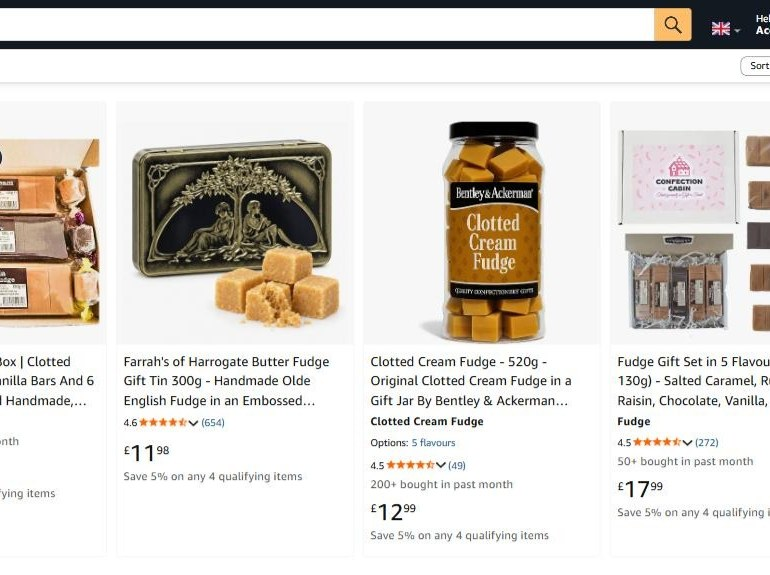
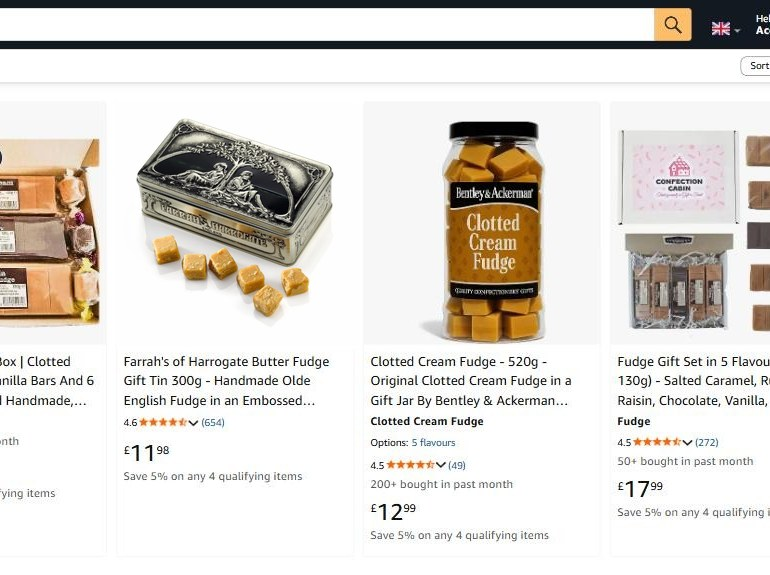
farrahs-demo-v2: shelf tile uses real photo, frame 2 = fudge close-up (no invented interior)

Changed region(s): [[0.1558, 0.207, 0.4675, 0.5913]]

diff --git a/r/farrahs-demo-v2/index.html b/r/farrahs-demo-v2/index.html
@@ -407,7 +407,7 @@
         <span class="micro">SEVEN FRAMES, ONE QUESTION EACH · THREE SHOWN FOR THIS PAGE</span>
         <div class="frames">
           <div><i>1</i><img src="img/fudge-real-main.jpg" alt="Frame 1: your photograph of the tin with its fudge on white" loading="lazy" width="400" height="400"><span><b>What is it</b>Your photograph, on white</span></div>
-          <div><i>2</i><img src="img/fudge-open-real.jpg" alt="Frame 2 concept: the tin open, fudge inside" loading="lazy" width="400" height="400"><span><b>What is inside</b>Open tin, the fudge</span></div>
+          <div><i>2</i><img src="img/fudge-inside-real.jpg" alt="Frame 2 concept: the fudge itself, one cube broken open, the tin behind" loading="lazy" width="400" height="400"><span><b>What is inside</b>The fudge, one cube broken open</span></div>
           <div><i>3</i><img src="img/fudge-gift-real.jpg" alt="Frame 3 concept: the tin as a present" loading="lazy" width="400" height="400"><span><b>Is it a present</b>The tin, wrapped</span></div>
         </div>
         <ol class="frames-rest">
@@ -416,7 +416,7 @@
           <li><i>6</i><b>What it tastes like</b> butter, sugar, cream</li>
           <li><i>7</i><b>What else is there</b> the gift range</li>
         </ol>
-        <p class="note">Frame 1 is your own photograph. Frames 2 and 3 are built from it for this page, so you can judge the standard. Frames 4 to 7 are shot or built from your files in the Pilot Wave; every one of the fifty pages gets the same seven.</p>
+        <p class="note">Frame 1 is your own photograph. Frames 2 and 3 are built from it for this page, so you can judge the standard; the lid-off shot waits until we have your stock in hand. Frames 4 to 7 are shot or built from your files in the Pilot Wave; every one of the fifty pages gets the same seven.</p>
       </div>
     </div>
 
@@ -547,7 +547,7 @@
         <li><strong>Search phrases.</strong> One year of Amazon UK search data, 1.46 million phrases. The rank shown is the phrase's best weekly position in that year.</li>
         <li><strong>Competitor sales and prices.</strong> Amazon's own "bought in past month" label and listed prices, read on 14 September 2026. Amazon shows a range, not an exact count.</li>
         <li><strong>Fees.</strong> Amazon's published UK referral and FBA rates for confectionery in a parcel under 500 g, rounded to the nearest 10p. Exact fees depend on the packed size and weight of each product and are itemised in the quote.</li>
-        <li><strong>What is real and what is a concept.</strong> Real: every number, date, review count, search rank, competitor price, and the left phone of each pair. Concept: the new titles and bullets, gallery frames 2 and 3, and the Farrah's tile on the shelf. The tin photograph used as the main image is Farrah's own product shot, taken from a stockist's listing. Whether the existing pages can be edited from your account is confirmed at step 03 of the plan, before anything is signed. Titles and bullets follow Amazon's rules and are built for real from your product data and photography once you sign off.</li>
+        <li><strong>What is real and what is a concept.</strong> Real: every number, date, review count, search rank, competitor price, and the left phone of each pair. Concept: the new titles and bullets, gallery frames 2 and 3, and the Farrah's tile on the shelf (which uses the same photograph). The tin photograph used as the main image is Farrah's own product shot, taken from a stockist's listing. Whether the existing pages can be edited from your account is confirmed at step 03 of the plan, before anything is signed. Titles and bullets follow Amazon's rules and are built for real from your product data and photography once you sign off.</li>
       </ul></details>
     </div>
   </section>
